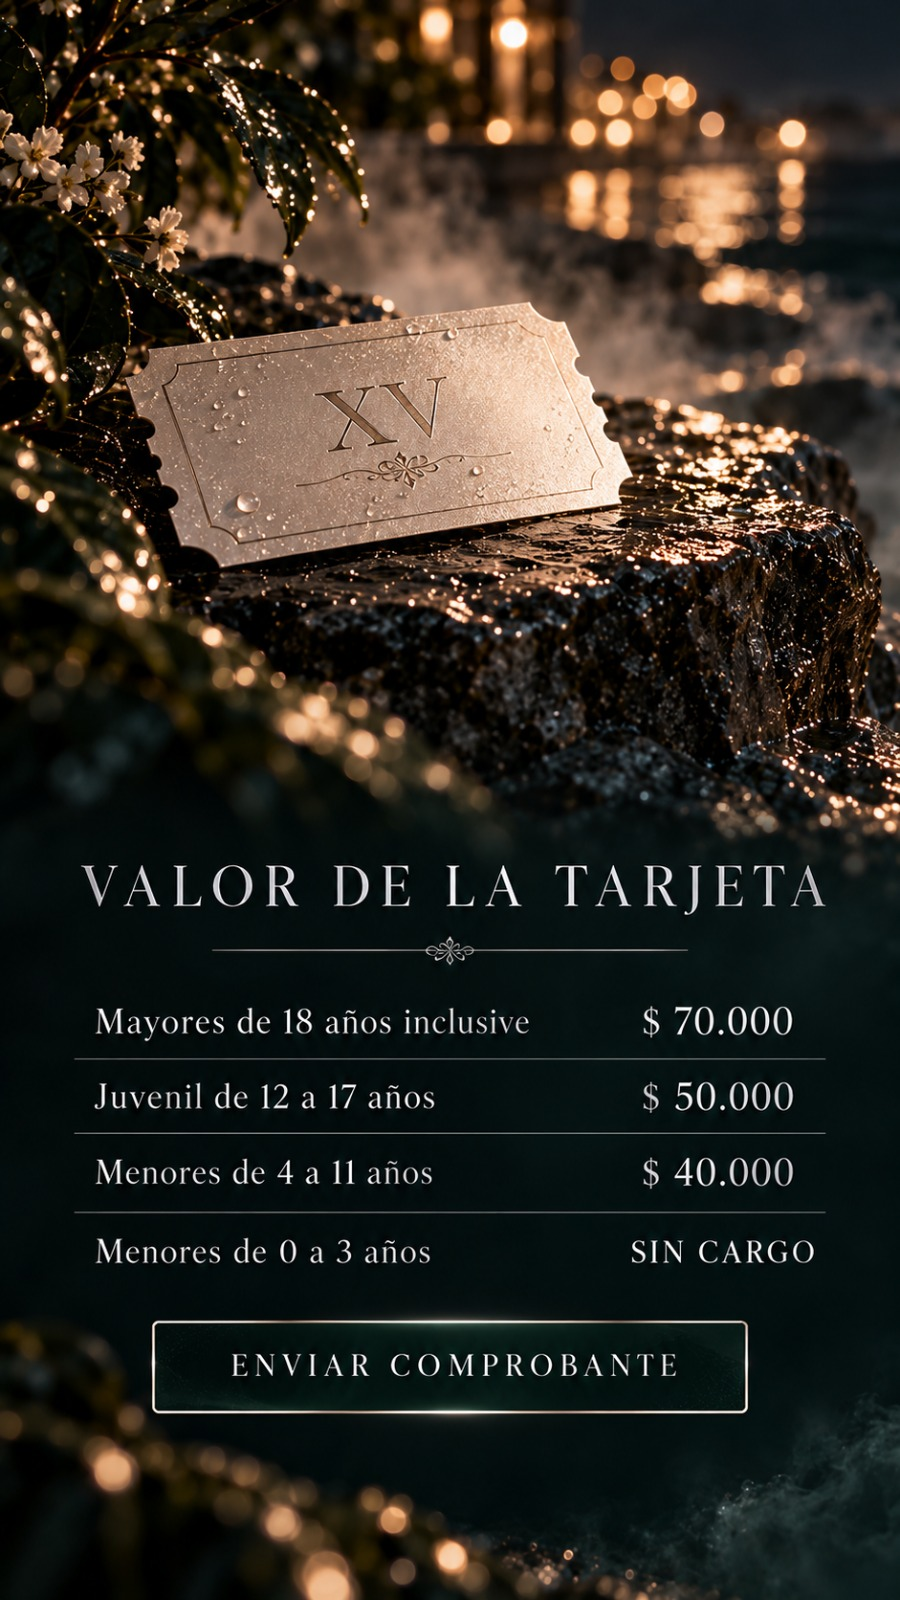
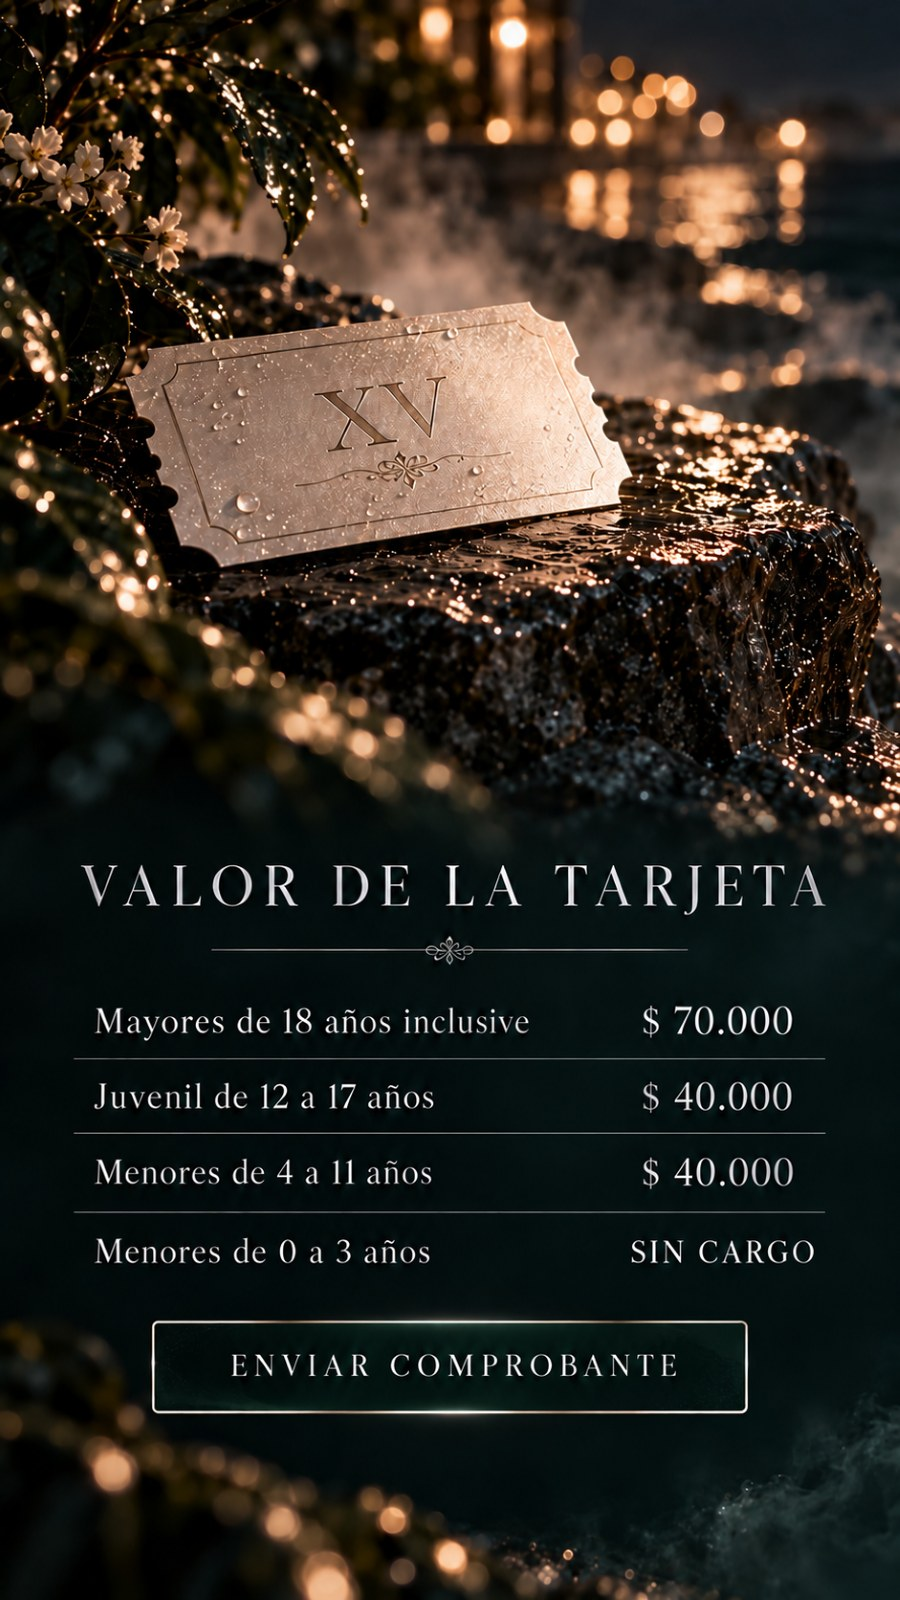
Actualizar precio y ordenar secciones

diff --git a/index.html b/index.html
@@ -98,11 +98,6 @@
         <img src="assets/05-dress-code.jpg" alt="Dress code elegante. Evitar color verde." width="942" height="1674">
       </section>
 
-      <section class="visual-panel action-panel ticket-panel" aria-label="Valor de la tarjeta">
-        <img src="assets/valor-tarjeta.jpg" alt="Valor de la tarjeta: mayores de 18 años, 70.000 pesos; jóvenes de 12 a 17 años, 50.000 pesos; menores de 4 a 11 años, 40.000 pesos; menores de 0 a 3 años, sin cargo." width="900" height="1600">
-        <a class="image-action ticket-action" href="https://wa.me/543425231363?text=Hola%20Marianela%2C%20te%20env%C3%ADo%20el%20comprobante%20de%20pago%20de%20la%20tarjeta%20para%20los%20XV%20de%20Alma." target="_blank" rel="noopener" aria-label="Enviar comprobante de pago por WhatsApp a Marianela, mamá de Alma">Enviar comprobante</a>
-      </section>
-
       <section class="visual-panel action-panel bloomkeep-panel" aria-label="Bloomkeep">
         <img src="assets/06-bloomkeep.jpg" alt="Bloomkeep: compartí tus fotos y mensajes." width="942" height="1674">
         <a class="image-action bloomkeep-action" href="https://app.bloomkeep.site/almaa-15" target="_blank" rel="noopener" aria-label="Ingresar al álbum Bloomkeep de Alma">Ingresar</a>
@@ -120,6 +115,11 @@
           <span></span><span></span><span></span><span></span><span></span>
         </div>
         <a class="image-action music-action" href="https://open.spotify.com/playlist/6MBtYoC77OTIjcWRmCyGNo?si=cJP15Fj0TsuB6YUoTu1uYw&amp;utm_source=whatsapp&amp;pi=E2QE86BVQS-ZT&amp;pt=57bd1ae075f7a87330dbedbf7cfa9282" target="_blank" rel="noopener" aria-label="Sugerir una canción en la playlist de Alma">Sugerir canción</a>
+      </section>
+
+      <section class="visual-panel action-panel ticket-panel" aria-label="Valor de la tarjeta">
+        <img src="assets/valor-tarjeta.jpg" alt="Valor de la tarjeta: mayores de 18 años, 70.000 pesos; jóvenes de 12 a 17 años, 40.000 pesos; menores de 4 a 11 años, 40.000 pesos; menores de 0 a 3 años, sin cargo." width="900" height="1600">
+        <a class="image-action ticket-action" href="https://wa.me/543425231363?text=Hola%20Marianela%2C%20te%20env%C3%ADo%20el%20comprobante%20de%20pago%20de%20la%20tarjeta%20para%20los%20XV%20de%20Alma." target="_blank" rel="noopener" aria-label="Enviar comprobante de pago por WhatsApp a Marianela, mamá de Alma">Enviar comprobante</a>
       </section>
 
       <section class="visual-panel action-panel rsvp-panel" aria-label="Confirmación de asistencia">
